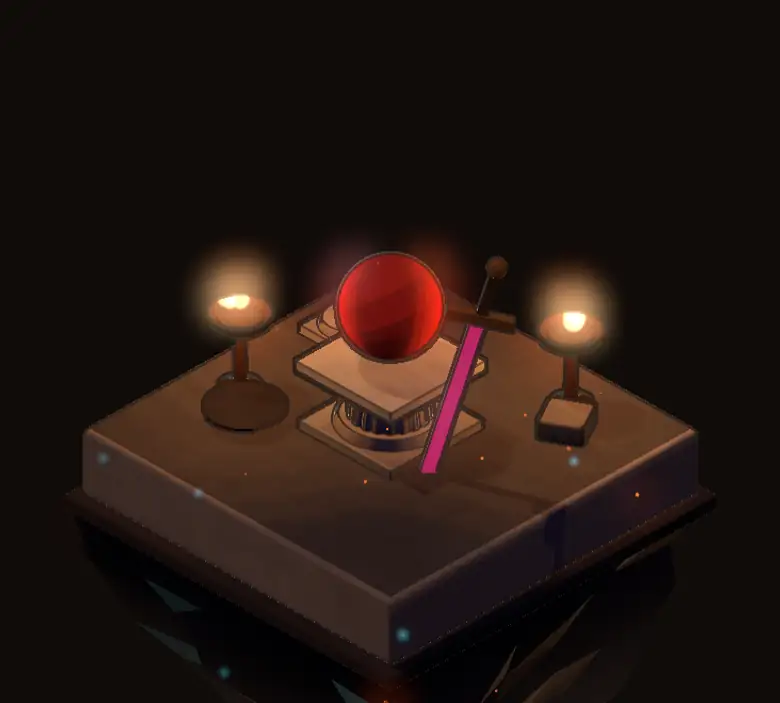
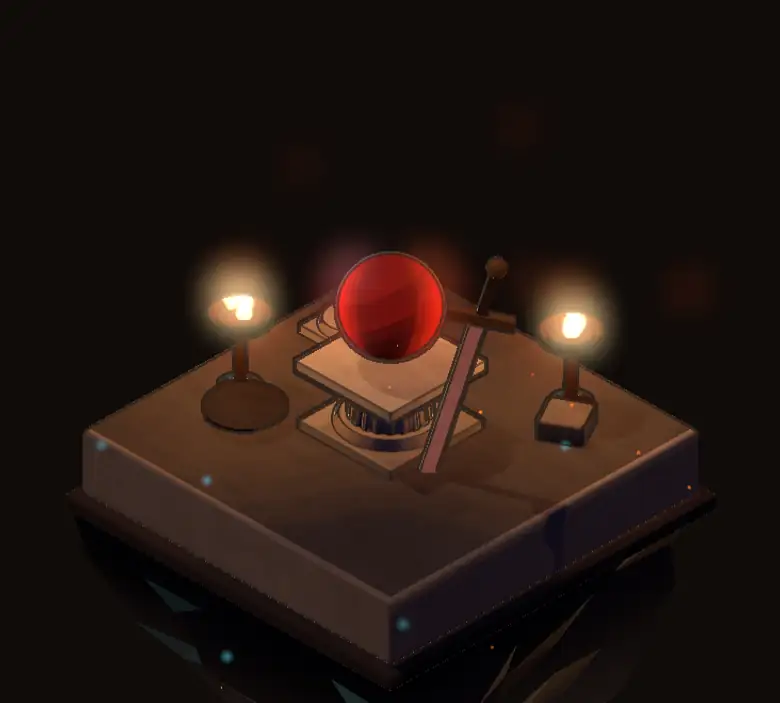
Moment posters for every set, first moments preloaded; Book a call on the blog nav and the /capy board; /capy phones hold the globe still and start from 128px pictures; game page 768px art and h3 cards; exact Blade Ball line in the gallery note

diff --git a/src/app/derelictdepths/page.tsx b/src/app/derelictdepths/page.tsx
@@ -168,7 +168,7 @@ export default async function MinelightPage() {
             </p>
           </div>
           <figure className="ml-poster">
-            <img src="/derelictdepths/img/poster-1280.jpg" fetchPriority="high" srcSet="/derelictdepths/img/poster-640.jpg 640w, /derelictdepths/img/poster-1280.jpg 1280w" sizes="(min-width: 900px) 540px, 100vw" width={1280} height={720} alt="A miner raises a pickaxe in the Golden Room in front of the Mole King" />
+            <img src="/derelictdepths/img/poster-1280.jpg" fetchPriority="high" srcSet="/derelictdepths/img/poster-640.jpg 640w, /derelictdepths/img/poster-768.jpg 768w, /derelictdepths/img/poster-1280.jpg 1280w" sizes="(min-width: 900px) 540px, 100vw" width={1280} height={720} alt="A miner raises a pickaxe in the Golden Room in front of the Mole King" />
             <figcaption><span className="ml-badge art">In-engine + key art</span>A real in-engine capture of the Golden Room, graded, with rays and the title added.</figcaption>
           </figure>
         </header>
@@ -197,11 +197,11 @@ export default async function MinelightPage() {
           </div>
           <div className="ml-art">
             <figure className="ml-logo-fig">
-              <img src="/derelictdepths/img/logo-1280.webp" srcSet="/derelictdepths/img/logo-640.webp 640w, /derelictdepths/img/logo-1280.webp 1280w" sizes="(min-width: 760px) 720px, 100vw" width={1280} height={727} alt="The Derelict Depths wordmark" loading="lazy" decoding="async" />
+              <img src="/derelictdepths/img/logo-1280.webp" srcSet="/derelictdepths/img/logo-640.webp 640w, /derelictdepths/img/logo-768.webp 768w, /derelictdepths/img/logo-1280.webp 1280w" sizes="(min-width: 760px) 720px, 100vw" width={1280} height={727} alt="The Derelict Depths wordmark" loading="lazy" decoding="async" />
               <figcaption><b>The wordmark</b><span className="ml-badge">Logo</span>Built in code, so every size is a redraw rather than a stretched image.</figcaption>
             </figure>
             <figure className="ml-icon-fig">
-              <img src="/derelictdepths/img/icon-256.png" width={256} height={256} alt="The Derelict Depths icon" loading="lazy" decoding="async" />
+              <img src="/derelictdepths/img/icon-256.jpg" width={256} height={256} alt="The Derelict Depths icon" loading="lazy" decoding="async" />
               <figcaption><b>The icon</b><span className="ml-badge">Store icon</span>What a player sees at thumbnail size in a list of games.</figcaption>
             </figure>
           </div>
@@ -212,7 +212,7 @@ export default async function MinelightPage() {
           <div className="ml-pair">
             <Shot name="thumb-ore" w={1280} h={720} kind="Store thumbnail" title="Capsule three: the ore room" note="A real capture of a Topsoil ore room." />
             <div className="ml-card">
-              <h4>How the capsules were picked</h4>
+              <h3>How the capsules were picked</h3>
               <p>Each capsule has one default and one or two alternates. The defaults are the ones a store upload reads; the alternates stay as labelled options for jawad&apos;s pick. Every file is 1920 × 1080 and carries the same wordmark, and none of them introduces a game, a name or a look that isn&apos;t in the build.</p>
             </div>
           </div>
@@ -234,7 +234,7 @@ export default async function MinelightPage() {
           <div className="ml-sys">
             {SYSTEMS.map((s) => (
               <div className="ml-card" key={s.name}>
-                <h4>{s.name}</h4>
+                <h3>{s.name}</h3>
                 <p>{s.body}</p>
                 <small>{s.code}</small>
               </div>
@@ -440,11 +440,11 @@ export default async function MinelightPage() {
           />
           <div className="ml-grid two">
             <div className="ml-card">
-              <h4>Thornmaw, The Old Bulb</h4>
+              <h3>Thornmaw, The Old Bulb</h3>
               <p>Topsoil&apos;s miniboss. 30 HP, a ranged plant with a 42-frame tell. Break its bark, then hit the bulb, and stay out of the circles and the thorn lines.</p>
             </div>
             <div className="ml-card">
-              <h4>Rattletrap, The Runaway Cart</h4>
+              <h3>Rattletrap, The Runaway Cart</h3>
               <p>Iron Halls&apos; miniboss. 34 HP, a charger with a 45-frame tell. Jump out of its lane twice, then kick its kegs back at it.</p>
             </div>
           </div>
@@ -482,9 +482,9 @@ export default async function MinelightPage() {
             ]}
           />
           <div className="ml-grid three">
-            <div className="ml-card"><h4>Levels</h4><p>Cap 50. Each level needs 80 × L<sup>1.45</sup> XP: 8,099 in total for level 10, 130,288 for 30, 463,101 for 50.</p></div>
-            <div className="ml-card"><h4>Skill points</h4><p>One per level, two at levels 10 and 25, spent in a shared mining tree and one constellation tree per class. A node needs any one of its prerequisites; the root is free.</p></div>
-            <div className="ml-card"><h4>Rebirth</h4><p>From level 30 with a Heartstone. It resets gear and the bank, keeps classes and cosmetics, and adds x0.25 yield each time, up to x5.</p></div>
+            <div className="ml-card"><h3>Levels</h3><p>Cap 50. Each level needs 80 × L<sup>1.45</sup> XP: 8,099 in total for level 10, 130,288 for 30, 463,101 for 50.</p></div>
+            <div className="ml-card"><h3>Skill points</h3><p>One per level, two at levels 10 and 25, spent in a shared mining tree and one constellation tree per class. A node needs any one of its prerequisites; the root is free.</p></div>
+            <div className="ml-card"><h3>Rebirth</h3><p>From level 30 with a Heartstone. It resets gear and the bank, keeps classes and cosmetics, and adds x0.25 yield each time, up to x5.</p></div>
           </div>
           <div className="ml-col">
             <p>
@@ -552,9 +552,9 @@ export default async function MinelightPage() {
           />
           <h3 className="ml-h3">Controls</h3>
           <div className="ml-grid three">
-            <div className="ml-card"><h4>PC</h4><p>WASD to move, <strong>click to swing</strong>, Space to dash, E for a bomb, F for the ability, R for the ult, 1 to 9 for the hotbar.</p></div>
-            <div className="ml-card"><h4>Phone</h4><p>A thumbstick and one big SWING button, with the dash, bomb, ability and ult on an arc around it. The hotbar sits along the bottom and takes a tap.</p></div>
-            <div className="ml-card"><h4>Click to swing</h4><p>The client plays the swing at once and sends an intent; the server decides what it hit. A hit is never the client&apos;s claim.</p></div>
+            <div className="ml-card"><h3>PC</h3><p>WASD to move, <strong>click to swing</strong>, Space to dash, E for a bomb, F for the ability, R for the ult, 1 to 9 for the hotbar.</p></div>
+            <div className="ml-card"><h3>Phone</h3><p>A thumbstick and one big SWING button, with the dash, bomb, ability and ult on an arc around it. The hotbar sits along the bottom and takes a tap.</p></div>
+            <div className="ml-card"><h3>Click to swing</h3><p>The client plays the swing at once and sends an intent; the server decides what it hit. A hit is never the client&apos;s claim.</p></div>
           </div>
           <Diagram name="input" alt="Sequence diagram of one swing: the player clicks, the client plays the swing and sends an Attack intent, the server rate-limits and validates it, resolves the hit and broadcasts it, and every client plays the flash, sound and number." caption={<><b>One click, end to end.</b></>} />
         </Section>

diff --git a/src/app/capy/engine.ts b/src/app/capy/engine.ts
@@ -121,11 +121,11 @@ function zoomPath(a: [number, number, number], b: [number, number, number], rho:
 }
 
 // ── pictures ──────────────────────────────────────────────────────────────
-// Level 0 and 1 are 256 and 640 wide copies from the image optimizer, 2 is the site's web preview (about 1200 on the
-// long side), 3 is the original file. A piece asks for the smallest level that is sharp at its size on screen.
+// Levels 0, 1 and 2 are 128, 256 and 640 wide copies from the image optimizer, 3 is the site's web preview (about 1200
+// on the long side), 4 is the original file. A piece asks for the smallest level that is sharp at its size on screen.
 type Tex = { img: HTMLImageElement | null; state: 0 | 1 | 2 | 3; used: number; at?: number };
 const ST = { none: 0, loading: 1, ready: 2, failed: 3 } as const;
-const BUDGET = [Infinity, 160, 48, 6];
+const BUDGET = [Infinity, 240, 160, 48, 6];
 
 class Pictures {
   tex: Tex[][];
@@ -139,24 +139,26 @@ class Pictures {
     private pieces: Piece[],
     onReady: () => void,
   ) {
-    this.tex = pieces.map(() => [0, 1, 2, 3].map(() => ({ img: null, state: ST.none, used: 0 }) as Tex));
+    this.tex = pieces.map(() => [0, 1, 2, 3, 4].map(() => ({ img: null, state: ST.none, used: 0 }) as Tex));
     this.onReady = onReady;
   }
   url(i: number, l: number) {
     const a = this.pieces[i].a;
-    if (l === 0) return sized(a.preview, 256);
-    if (l === 1) return sized(a.preview, 640);
-    if (l === 2) return a.preview;
+    if (l === 0) return sized(a.preview, 128);
+    if (l === 1) return sized(a.preview, 256);
+    if (l === 2) return sized(a.preview, 640);
+    if (l === 3) return a.preview;
     return a.original;
   }
   /** The level a piece wants for `px` device pixels of width on screen. */
   want(i: number, px: number) {
     const a = this.pieces[i].a;
-    if (px <= 300) return 0;
-    if (px <= 720) return 1;
+    if (px <= 120) return 0;
+    if (px <= 300) return 1;
+    if (px <= 720) return 2;
     const pw = a.w * Math.min(1, 1200 / Math.max(a.w, a.h));
-    if (px <= pw * 1.3 || a.type !== "image") return 2;
-    return 3;
+    if (px <= pw * 1.3 || a.type !== "image") return 3;
+    return 4;
   }
   request(i: number, l: number, pri: number) {
     const t = this.tex[i][l];
@@ -191,7 +193,7 @@ class Pictures {
         .catch(() => {
           t.state = ST.failed;
           // no optimizer (a plain static host): the small levels fall back to the preview
-          if (l < 2) this.request(i, 2, 0);
+          if (l < 3) this.request(i, 3, 0);
         })
         .finally(() => {
           this.inflight--;
@@ -203,7 +205,7 @@ class Pictures {
   best(i: number, l: number, now: number): HTMLImageElement | null {
     const ts = this.tex[i];
     for (let k = l; k >= 0; k--) if (ts[k].state === ST.ready) return (ts[k].used = now), ts[k].img;
-    for (let k = l + 1; k < 4; k++) if (ts[k].state === ST.ready) return (ts[k].used = now), ts[k].img;
+    for (let k = l + 1; k < 5; k++) if (ts[k].state === ST.ready) return (ts[k].used = now), ts[k].img;
     return null;
   }
   /** 0 to 1: how far the first picture of a piece has popped in */
@@ -290,6 +292,8 @@ export class Engine {
   private miniDrag = false;
   /** prefers-reduced-motion: flights cut, no throw, no drift */
   calm = typeof matchMedia !== "undefined" && matchMedia("(prefers-reduced-motion: reduce)").matches;
+  /** phones skip the idle turn: redrawing every picture each frame costs a phone more than the motion gives back */
+  still = typeof matchMedia !== "undefined" && matchMedia("(max-width: 899px), (pointer: coarse)").matches;
   private off: (() => void)[] = [];
   private born = performance.now();
 
@@ -797,7 +801,7 @@ export class Engine {
     }
     // until anyone touches it, the globe turns slowly on its own
     // (for the first minute, so a page left open goes quiet)
-    if (!this.touched && !this.tour && !this.flight && this.manual === null && !this.calm && now - this.born < 60000) {
+    if (!this.touched && !this.tour && !this.flight && this.manual === null && !this.calm && !this.still && now - this.born < 60000) {
       const f = this.fitView(this.board);
       const a = (now / 52000) * Math.PI * 2;
       this.view = { x: f.x + Math.cos(a) * this.R * 0.3, y: f.y + Math.sin(a) * this.R * 0.18, z: f.z };

diff --git a/src/app/derelictdepths/minelight.css b/src/app/derelictdepths/minelight.css
@@ -111,7 +111,7 @@ body:has(.ml) { background: #100c1c; }
 .ml-grid { display: grid; gap: 14px; grid-template-columns: 1fr; margin: 18px 0 22px; }
 @media (min-width: 760px) { .ml-grid.two { grid-template-columns: 1fr 1fr; } .ml-grid.three { grid-template-columns: 1fr 1fr 1fr; } }
 .ml-card { background: var(--panel); border: 2px solid var(--ink); border-radius: 12px; padding: 16px 16px 6px; box-shadow: 3px 3px 0 var(--ink); }
-.ml-card h4 { margin: 0 0 6px; font-family: var(--display); font-weight: 600; font-size: 18px; color: var(--cream); }
+.ml-card h3 { margin: 0 0 6px; font-family: var(--display); font-weight: 600; font-size: 18px; color: var(--cream); }
 .ml-card p, .ml-card li { font-size: 15px; color: #e6dcf7; }
 .ml-card .ml-tag { margin-bottom: 8px; }
 .ml-note { border-left: 4px solid var(--amber); background: #221a10; padding: 12px 16px; border-radius: 0 10px 10px 0; margin: 18px 0; font-size: 15.5px; color: #fbe9c0; }
@@ -136,8 +136,8 @@ body:has(.ml) { background: #100c1c; }
 @keyframes ml-pulse { 0% { box-shadow: 0 0 0 0 rgba(123, 224, 160, 0.6); } 70% { box-shadow: 0 0 0 10px rgba(123, 224, 160, 0); } 100% { box-shadow: 0 0 0 0 rgba(123, 224, 160, 0); } }
 @media (prefers-reduced-motion: reduce) { .ml-live i { animation: none; } }
 .ml-hour { margin: 0 0 18px; }
-.ml-hour h4 { position: sticky; top: 0; z-index: 1; margin: 0; padding: 8px 0; background: var(--bg); font-size: 13px; letter-spacing: 0.08em; text-transform: uppercase; color: var(--amber); font-weight: 800; display: flex; justify-content: space-between; border-bottom: 2px solid var(--ink); }
-.ml-hour h4 span { color: var(--dim); }
+.ml-hour h3 { position: sticky; top: 0; z-index: 1; margin: 0; padding: 8px 0; background: var(--bg); font-size: 13px; letter-spacing: 0.08em; text-transform: uppercase; color: var(--amber); font-weight: 800; display: flex; justify-content: space-between; border-bottom: 2px solid var(--ink); }
+.ml-hour h3 span { color: var(--dim); }
 .ml-pr { display: grid; grid-template-columns: 52px 1fr; gap: 2px 12px; padding: 12px 0; border-bottom: 1px solid #251d43; }
 .ml-pr time { font-variant-numeric: tabular-nums; color: var(--dim); font-size: 14px; padding-top: 2px; }
 .ml-pr .t { font-weight: 700; color: var(--cream); font-size: 15.5px; line-height: 1.4; }

diff --git a/src/components/moments/Moment.tsx b/src/components/moments/Moment.tsx
@@ -1,16 +1,23 @@
 "use client";
 
 import { type ReactNode, useCallback } from "react";
+import { preload } from "react-dom";
 import { Stage } from "@/components/world/kit/Stage";
 import type { SetName } from "./sets";
 import "./moments.css";
 
 /** A route's 3D moment: its set from ./sets on the world kit's Stage, the poster render first (and on phones), the
- *  live scene on capable screens near the viewport. Children are the page's own HTML laid over it. */
-export function Moment({ set, className = "", children }: { set: SetName; className?: string; children?: ReactNode }) {
+ *  live scene on capable screens near the viewport. Children are the page's own HTML laid over it. A `first` moment
+ *  opens its page, so its poster is fetched with the document instead of waiting on the stage's lazy image. */
+export function Moment({ set, first, className = "", children }: { set: SetName; first?: boolean; className?: string; children?: ReactNode }) {
+  const d = "/moments/" + set + "-d.webp", ph = "/moments/" + set + "-m.webp";
+  if (first) {
+    preload(ph, { as: "image", media: "(max-width: 767px)", fetchPriority: "high" });
+    preload(d, { as: "image", media: "(min-width: 768px)", fetchPriority: "high" });
+  }
   const load = useCallback(() => import("./mount").then((m) => (host: HTMLElement, ctx: Parameters<typeof m.mount>[1]) => m.mount(host, ctx, set)), [set]);
   return (
-    <Stage load={load} poster={{ d: "/moments/" + set + "-d.webp", m: "/moments/" + set + "-m.webp" }} className={"mo mo-" + set + (className ? " " + className : "")}>
+    <Stage load={load} poster={{ d, m: ph }} className={"mo mo-" + set + (className ? " " + className : "")}>
       {children}
     </Stage>
   );

diff --git a/src/app/capy/board.css b/src/app/capy/board.css
@@ -48,6 +48,9 @@ html:has(.cb) body {
 
 /* ── the head ─────────────────────────────────────────────────────────── */
 .cb-head { position: absolute; left: 24px; top: 20px; pointer-events: none; }
+.cb-call { position: absolute; right: 20px; top: 20px; display: inline-flex; align-items: center; height: 44px; padding: 0 18px; border-radius: 999px; background: #0a0a0a; color: #fff; font-size: 15px; font-weight: 600; letter-spacing: -0.01em; box-shadow: 0 6px 24px rgba(0, 0, 0, 0.18); transition: opacity 150ms; }
+.cb-call:hover, .cb-call:focus-visible { opacity: 0.86; }
+.cb-has-sel .cb-call, .cb-off .cb-call { opacity: 0; pointer-events: none; }
 .cb-head > * { pointer-events: auto; }
 .cb-name { display: inline-block; font-size: 14px; font-weight: 600; letter-spacing: -0.01em; }
 .cb-name:hover { color: var(--blue); }
@@ -154,6 +157,7 @@ html:has(.cb) body {
 /* ── narrow screens: the cluster list folds into the toolbar ──────────── */
 @media (max-width: 899px) {
   .cb-head { left: 16px; top: 14px; }
+  .cb-call { right: 16px; top: 14px; height: 40px; padding: 0 14px; font-size: 14px; }
   .cb-title { font-size: 26px; }
   .cb-fan { font-size: 11px; max-width: 220px; }
   .cb-clusters { display: none; left: 50%; top: auto; bottom: 72px; transform: translateX(-50%); width: min(280px, calc(100vw - 32px)); }

diff --git a/src/lib/gallery.ts b/src/lib/gallery.ts
@@ -53,7 +53,7 @@ export const ROOMS: Room[] = [
   { key: "websites", title: "Websites", note: "For his studio, his 3D team and his clients.", count: sites.length + " sites", entries: sites, section: "web" },
   { key: "ignaru", title: "Ignaru", note: ignaru.lines.join(" "), count: "Design tool", entries: [projectEntry(ignaru), ...IGNARU.map(design("designed and built by Jawad Jalal", "Product design"))], section: "web", caseHref: "/work/ignaru" },
   { key: "concepts", title: "Concepts", note: "Pitch sites, redesigns and templates.", count: CONCEPTS.length + " sites", entries: CONCEPTS.map(web), section: "web" },
-  { key: "cosmos-models", title: "Cosmos Models", note: "His 3D portfolio from age 13, and 3D art for Blade Ball and Fish It!", count: COSMOS.length + " pieces", entries: COSMOS.map(design("3D by Jawad Jalal", "3D")), section: "3d" },
+  { key: "cosmos-models", title: "Cosmos Models", note: "His 3D portfolio from age 13, and 3D art for Blade Ball and Fish It, two of Roblox's biggest games (over 11 billion visits between them).", count: COSMOS.length + " pieces", entries: COSMOS.map(design("3D by Jawad Jalal", "3D")), section: "3d" },
   { key: "bevel", title: "Bevel", note: "The 3D art team he founded. These pieces are the team's.", count: BEVEL.length + " pieces", entries: BEVEL.map(design("made by the 3D art team he founded", "3D")), section: "3d" },
   {
     key: "fracture",

diff --git a/src/app/capy/page.tsx b/src/app/capy/page.tsx
@@ -2,6 +2,7 @@ import "../globals.css";
 import type { Metadata } from "next";
 import { Archivo, Inter } from "next/font/google";
 import Link from "next/link";
+import { BookLink } from "@/components/BookLink";
 import data from "./assets.json";
 import { Gallery, type Asset } from "./Gallery";
 import { Board } from "./Board";
@@ -61,9 +62,14 @@ export default function CapyPage() {
     <div className={`capy ${sans.variable} ${print.variable}`}>
       <Board assets={ASSETS} kinds={kinds}>
       <header className="cp-head">
-        <Link href="/" className="cp-name">
-          Jawad Jalal
-        </Link>
+        <div className="cp-top">
+          <Link href="/" className="cp-name">
+            Jawad Jalal
+          </Link>
+          <BookLink src="capy" className="cp-call">
+            Book a call ↗
+          </BookLink>
+        </div>
         <h1 className="cp-title" data-text={"Capy hackathon\nassets"}>
           Capy hackathon
           <br />
@@ -79,6 +85,7 @@ export default function CapyPage() {
       <Gallery assets={ASSETS} kinds={kinds} total={ASSETS.length} sets={sets} />
       <footer className="cp-foot">
         <Link href="/">jawadjalal.com</Link>
+        <BookLink src="capy-foot">Book a call</BookLink>
         <a href="https://x.com/jawadmakes">@jawadmakes</a>
       </footer>
       </Board>

diff --git a/src/app/capy/capy.css b/src/app/capy/capy.css
@@ -39,7 +39,10 @@ html:has(.capy) body {
   column-gap: clamp(24px, 4vw, 72px);
   padding: 20px var(--edge) clamp(40px, 5vw, 72px);
 }
-.cp-name { grid-area: name; justify-self: start; font-size: 16px; font-weight: 600; letter-spacing: -0.01em; margin-bottom: clamp(48px, 7vw, 112px); }
+.cp-top { grid-area: name; display: flex; align-items: center; justify-content: space-between; gap: 16px; margin-bottom: clamp(48px, 7vw, 112px); }
+.cp-name { font-size: 16px; font-weight: 600; letter-spacing: -0.01em; }
+.cp-call { display: inline-flex; align-items: center; min-height: 44px; padding: 0 18px; border-radius: 999px; background: var(--ink); color: #fff; font-size: 15px; font-weight: 600; letter-spacing: -0.01em; transition: opacity 150ms; }
+.cp-call:hover, .cp-call:focus-visible { opacity: 0.86; }
 .cp-name:hover, .cp-name:focus-visible { color: var(--blue); }
 
 .cp-title {
@@ -266,7 +269,7 @@ video.cp-media, .cp-media[data-loaded] { opacity: 1; transform: none; }
 }
 @media (max-width: 1180px) {
   .cp-head { grid-template-columns: minmax(0, 1fr); grid-template-areas: "name" "title" "intro"; row-gap: 28px; }
-  .cp-name { margin-bottom: 40px; }
+  .cp-top { margin-bottom: 40px; }
   .cp-title { font-size: min(12.8vw, 116px); }
   .cp-intro { max-width: 34em; }
 }

diff --git a/src/components/NavEmail.tsx b/src/components/NavEmail.tsx
@@ -1,9 +1,8 @@
 "use client";
 
-// The one action in the bar: a solid ink key, the strongest thing in the nav,
-// as ignura.com's Growth Check is. The envelope sits on a small paper tile so
-// its orange seal reads against the ink. It stays a real mailto in the markup,
-// so with no script it still reaches him.
+// The quiet second action in the bar, a soft key beside Book a call. The
+// envelope sits on a small paper tile; on phones the tile alone carries it. It
+// stays a real mailto in the markup, so with no script it still reaches him.
 
 import { Obj } from "./Obj";
 import { openContact } from "./contact";
@@ -18,13 +17,13 @@ export function NavEmail() {
         openContact();
       }}
       data-cur="say hi"
-      className="key key-ink h-9 gap-2 pl-1.5 pr-3 text-[14px]"
+      aria-label="Send an email"
+      className="key key-soft h-9 gap-2 px-1.5 text-[14px] sm:pr-3"
     >
       <span className="key-tile">
         <Obj name="contact" size={20} />
       </span>
-      <span className="hidden sm:inline">Send an email</span>
-      <span className="sm:hidden">Email</span>
+      <span className="hidden sm:inline">Email</span>
     </a>
   );
 }

diff --git a/src/app/derelictdepths/ui.tsx b/src/app/derelictdepths/ui.tsx
@@ -50,7 +50,7 @@ export function Still({ name, title, note, art = false, eager = false }: { name:
     <figure className="ml-still">
       <img
         src={"/derelictdepths/img/" + name + "-1280.jpg"}
-        srcSet={"/derelictdepths/img/" + name + "-640.jpg 640w, /derelictdepths/img/" + name + "-1280.jpg 1280w"}
+        srcSet={"/derelictdepths/img/" + name + "-640.jpg 640w, /derelictdepths/img/" + name + "-768.jpg 768w, /derelictdepths/img/" + name + "-1280.jpg 1280w"}
         sizes="(min-width: 760px) 520px, 100vw"
         width={1280}
         height={720}
@@ -73,7 +73,7 @@ export function Shot({ name, w, h, title, note, kind, eager = false }: { name: s
     <figure className="ml-shot">
       <img
         src={"/derelictdepths/img/" + name + "-1280.jpg"}
-        srcSet={"/derelictdepths/img/" + name + "-640.jpg 640w, /derelictdepths/img/" + name + "-1280.jpg 1280w"}
+        srcSet={"/derelictdepths/img/" + name + "-640.jpg 640w, /derelictdepths/img/" + name + "-768.jpg 768w, /derelictdepths/img/" + name + "-1280.jpg 1280w"}
         sizes="(min-width: 760px) 520px, 100vw"
         width={w}
         height={h}

diff --git a/src/app/derelictdepths/Feed.tsx b/src/app/derelictdepths/Feed.tsx
@@ -120,7 +120,7 @@ export function Feed({ feed, renderedAt }: { feed: FeedData | null; renderedAt: 
       <FeedMeta feed={feed} renderedAt={renderedAt} />
       {open.map((g) => (
         <section key={g.key} className="ml-hour">
-          <h4>{g.label} <span>{g.items.length} merged</span></h4>
+          <h3>{g.label} <span>{g.items.length} merged</span></h3>
           <ol style={{ listStyle: "none", margin: 0, padding: 0 }}>{g.items.map((item) => <Pr key={item.n} item={item} />)}</ol>
         </section>
       ))}
@@ -129,7 +129,7 @@ export function Feed({ feed, renderedAt }: { feed: FeedData | null; renderedAt: 
           <summary>Older: {restCount} more PRs over {rest.length} hours</summary>
           {rest.map((g) => (
             <section key={g.key} className="ml-hour">
-              <h4>{g.label} <span>{g.items.length} merged</span></h4>
+              <h3>{g.label} <span>{g.items.length} merged</span></h3>
               <ol style={{ listStyle: "none", margin: 0, padding: 0 }}>{g.items.map((item) => <Pr key={item.n} item={item} />)}</ol>
             </section>
           ))}

diff --git a/src/components/moments/sets.ts b/src/components/moments/sets.ts
@@ -88,7 +88,7 @@ function kit(c: SetCtx) {
   return { fires, platform, brazier, lamp, col, beam, mesh, words, glow, crystal };
 }
 
-/** /work, at the 3D break: Blade Ball's ball on a plinth and a steel blade driven into the floor beside it. */
+/** /work, at the 3D break: Blade Ball's ball on a plinth and its pink blade driven into the floor beside it. */
 function break3d(c: SetCtx): Set {
   const k = kit(c);
   const { B, m } = c;
@@ -97,7 +97,7 @@ function break3d(c: SetCtx): Set {
   const red = c.mk("#d3322b", { k: "stone", rim: 1.8 });
   const ball = k.mesh(prep(new THREE.SphereGeometry(1.55, 48, 32), false), red);
   ball.position.set(0, 2.6 + 1.55, 0);
-  const pink = c.mk("#d8cdbb", { k: "stone", rim: 2.2 }, { emissive: new THREE.Color("#ff5a1f"), emissiveIntensity: 0.12 });
+  const pink = c.mk("#e0569c", { k: "stone", rim: 1.8 }, { emissive: new THREE.Color("#ff2f8e"), emissiveIntensity: 0.12 });
   const sword = new THREE.Group();
   const part = (geo: THREE.BufferGeometry, mat: THREE.Material, y: number) => {
     const me = new THREE.Mesh(prep(geo, false), mat);
